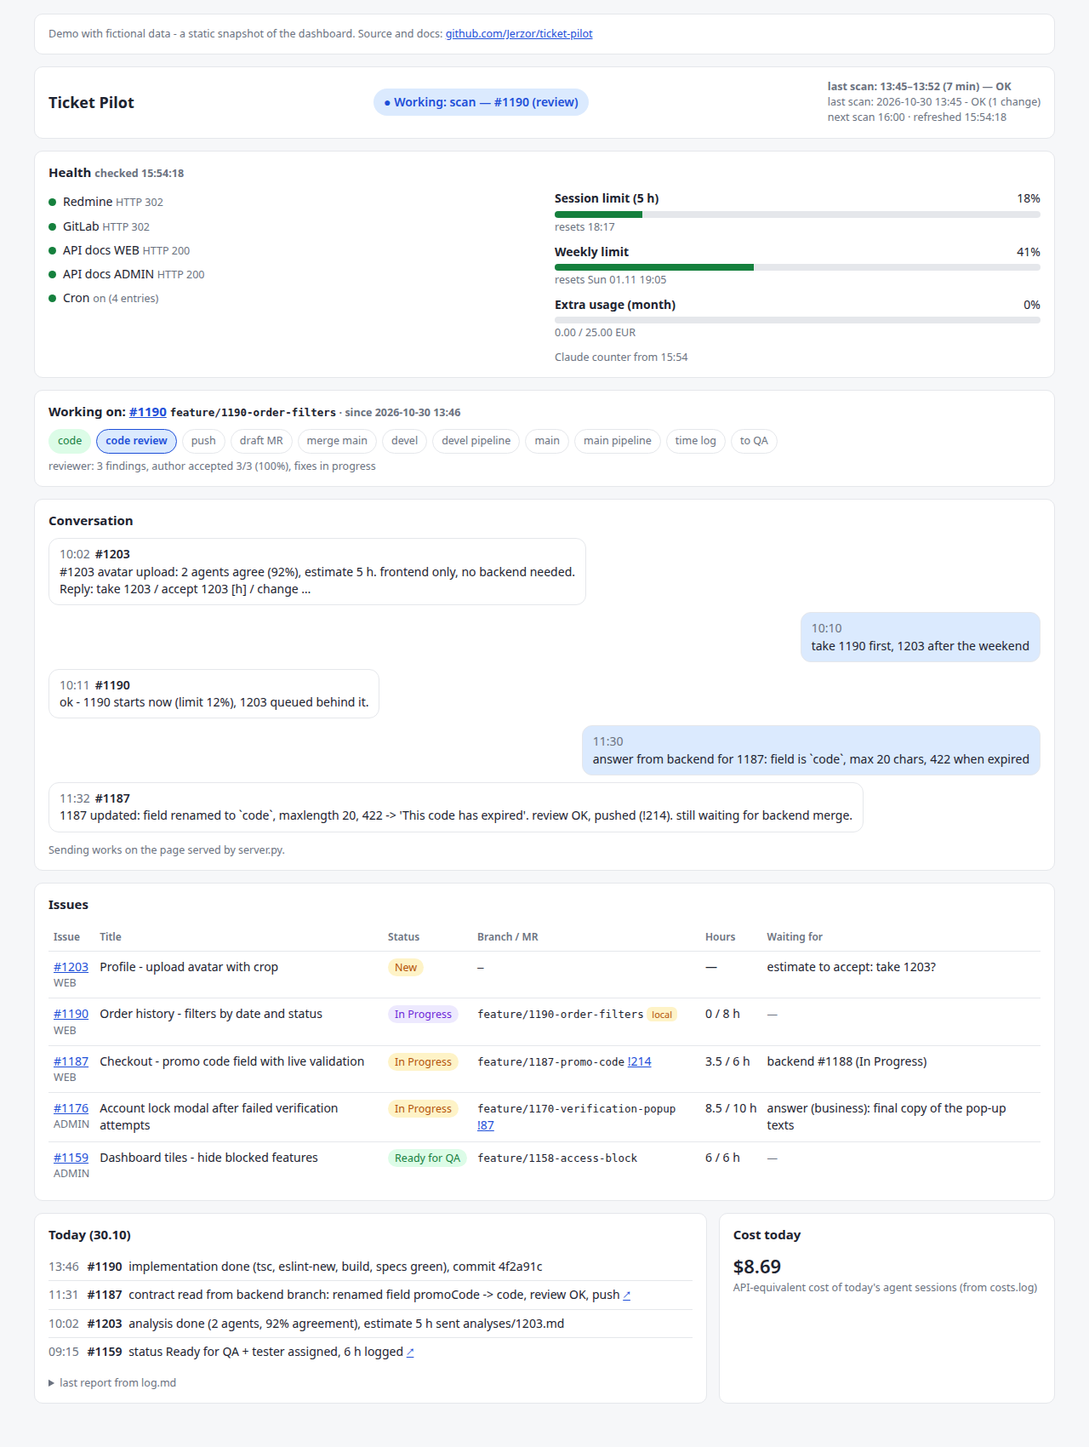
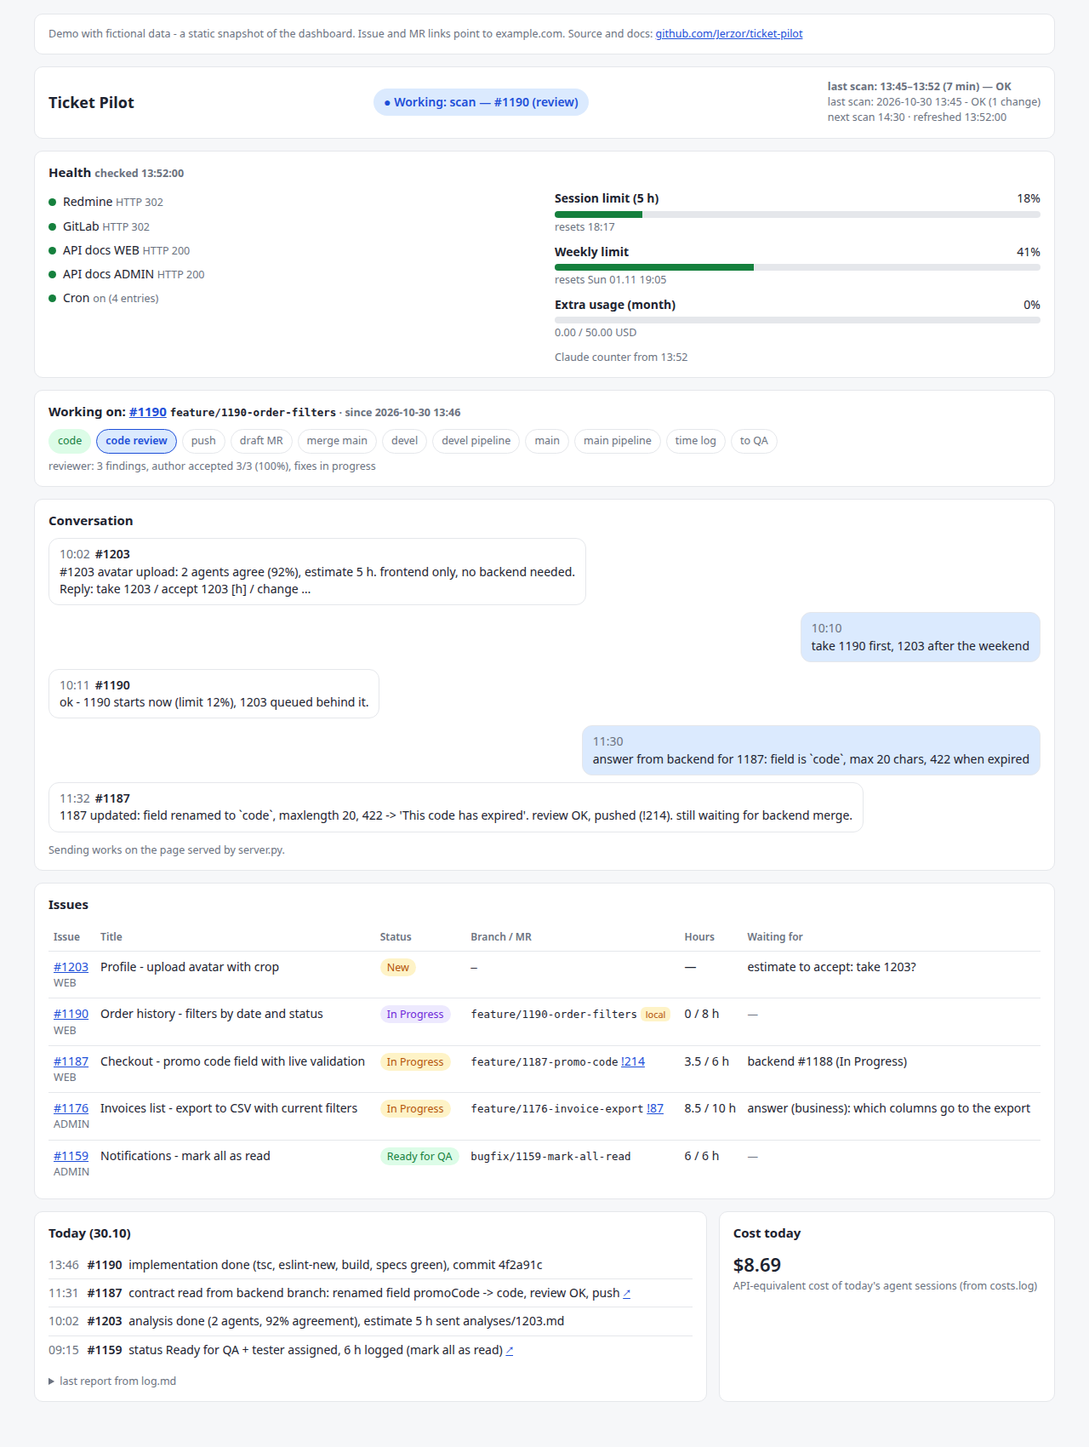
Fix lock inheritance, chat retry, mobile layout and setup docs

diff --git a/docs/index.html b/docs/index.html
@@ -22,7 +22,7 @@ th{font-size:12px;color:var(--muted);font-weight:600;border-top:0}.num{white-spa
 .steps li.done{background:var(--okbg);color:var(--ok);border-color:transparent}.steps li.now{background:var(--runbg);color:var(--run);border-color:var(--run);font-weight:600}
 ul.feed{list-style:none;margin:0;padding:0}ul.feed li{padding:6px 0;border-top:1px solid var(--line)}ul.feed li:first-child{border-top:0}
 time{font-variant-numeric:tabular-nums;color:var(--muted);margin-right:6px}.iss{font-weight:600;margin-right:4px}
-.grid{display:grid;grid-template-columns:2fr 1fr;gap:14px}@media (max-width:820px){.grid{grid-template-columns:1fr}.title{max-width:none}}
+main,.grid{grid-template-columns:minmax(0,1fr)}.grid{display:grid;gap:14px}@media (min-width:821px){.grid{grid-template-columns:minmax(0,2fr) minmax(0,1fr)}}@media (max-width:820px){.title{max-width:none}}
 .tablewrap{overflow-x:auto}.big{font-size:22px;font-weight:600}
 .health{display:grid;grid-template-columns:1fr 1fr;gap:6px 24px}@media (max-width:820px){.health{grid-template-columns:1fr}}
 ul.checks{list-style:none;margin:0;padding:0}ul.checks li{padding:4px 0}
@@ -39,15 +39,15 @@ form#send{display:flex;gap:8px;align-items:flex-end}
 textarea{flex:1;font:inherit;padding:8px;border-radius:8px;border:1px solid var(--line);background:var(--bg);color:var(--fg);resize:vertical}
 button{font:inherit;font-weight:600;padding:8px 16px;border-radius:8px;border:0;background:var(--run);color:var(--card);cursor:pointer}details pre{white-space:pre-wrap;font-size:12.5px;margin:8px 0 0}
 </style></head><body><main>
-<div class="card muted">Demo with fictional data - a static snapshot of the dashboard. Source and docs: <a href="https://github.com/Jerzor/ticket-pilot">github.com/Jerzor/ticket-pilot</a></div>
+<div class="card muted">Demo with fictional data - a static snapshot of the dashboard. Issue and MR links point to example.com. Source and docs: <a href="https://github.com/Jerzor/ticket-pilot">github.com/Jerzor/ticket-pilot</a></div>
 <div class="card top"><h1>Ticket Pilot</h1><span class="banner run">● Working: scan — #1190 (review)</span>
-<span class="muted"><b>last scan: 13:45–13:52 (7 min) — OK</b><br>last scan: 2026-10-30 13:45 - OK (1 change)<br>next scan 16:00 · refreshed 15:54:18</span></div>
+<span class="muted"><b>last scan: 13:45–13:52 (7 min) — OK</b><br>last scan: 2026-10-30 13:45 - OK (1 change)<br>next scan 14:30 · refreshed 13:52:00</span></div>
 
-<div class="card"><h2>Health <span class="muted">checked 15:54:18</span></h2><div class="health">
+<div class="card"><h2>Health <span class="muted">checked 13:52:00</span></h2><div class="health">
 <ul class="checks"><li><span class="dot ok"></span>Redmine <span class="muted">HTTP 302</span></li><li><span class="dot ok"></span>GitLab <span class="muted">HTTP 302</span></li><li><span class="dot ok"></span>API docs WEB <span class="muted">HTTP 200</span></li><li><span class="dot ok"></span>API docs ADMIN <span class="muted">HTTP 200</span></li><li><span class="dot ok"></span>Cron <span class="muted">on (4 entries)</span></li></ul><div><div class="meter"><div class="mrow"><b>Session limit (5 h)</b><span class="num">18%</span></div>
 <div class="bar"><i class="ok" style="width:18%"></i></div><div class="muted">resets 18:17</div></div><div class="meter"><div class="mrow"><b>Weekly limit</b><span class="num">41%</span></div>
 <div class="bar"><i class="ok" style="width:41%"></i></div><div class="muted">resets Sun 01.11 19:05</div></div><div class="meter"><div class="mrow"><b>Extra usage (month)</b><span class="num">0%</span></div>
-<div class="bar"><i class="ok" style="width:0%"></i></div><div class="muted">0.00 / 25.00 EUR</div></div><div class="muted">Claude counter from 15:54</div></div></div></div>
+<div class="bar"><i class="ok" style="width:0%"></i></div><div class="muted">0.00 / 50.00 USD</div></div><div class="muted">Claude counter from 13:52</div></div></div></div>
 <div class="card"><h2>Working on: <a href="https://redmine.example.com/issues/1190" target="_blank" rel="noopener">#1190</a> <code>feature/1190-order-filters</code><span class="muted"> · since 2026-10-30 13:46</span></h2>
 <ol class="steps"><li class="done">code</li><li class="now">code review</li><li class="">push</li><li class="">draft MR</li><li class="">merge main</li><li class="">devel</li><li class="">devel pipeline</li><li class="">main</li><li class="">main pipeline</li><li class="">time log</li><li class="">to QA</li></ol><div class="muted">reviewer: 3 findings, author accepted 3/3 (100%), fixes in progress</div></div>
 <div class="card" id="chat"><h2>Conversation</h2><ul class="chat"><li class="bot"><time>10:02</time><span class="iss">#1203</span> <div class="msg">#1203 avatar upload: 2 agents agree (92%), estimate 5 h. frontend only, no backend needed.
@@ -84,17 +84,17 @@ Reply: take 1203 / accept 1203 [h] / change …</div></li>
 </tr>
 <tr class="wait">
 <td><a href="https://redmine.example.com/issues/1176" target="_blank" rel="noopener">#1176</a><div class="muted">ADMIN</div></td>
-<td class="title">Account lock modal after failed verification attempts</td>
+<td class="title">Invoices list - export to CSV with current filters</td>
 <td><span class="pill wait">In Progress</span></td>
-<td><code>feature/1170-verification-popup</code> <a href="https://gitlab.example.com/acme/admin-panel/-/merge_requests/87" target="_blank" rel="noopener">!87</a></td>
+<td><code>feature/1176-invoice-export</code> <a href="https://gitlab.example.com/acme/admin-panel/-/merge_requests/87" target="_blank" rel="noopener">!87</a></td>
 <td class="num">8.5 / 10 h</td>
-<td>answer (business): final copy of the pop-up texts</td>
+<td>answer (business): which columns go to the export</td>
 </tr>
 <tr class="ok">
 <td><a href="https://redmine.example.com/issues/1159" target="_blank" rel="noopener">#1159</a><div class="muted">ADMIN</div></td>
-<td class="title">Dashboard tiles - hide blocked features</td>
+<td class="title">Notifications - mark all as read</td>
 <td><span class="pill ok">Ready for QA</span></td>
-<td><code>feature/1158-access-block</code> </td>
+<td><code>bugfix/1159-mark-all-read</code> </td>
 <td class="num">6 / 6 h</td>
 <td><span class="muted">—</span></td>
 </tr></table></div></div>
@@ -102,13 +102,13 @@ Reply: take 1203 / accept 1203 [h] / change …</div></li>
 <div class="card"><h2>Today (30.10)</h2><ul class="feed"><li><time>13:46</time> <span class="iss">#1190</span> implementation done (tsc, eslint-new, build, specs green), commit 4f2a91c </li>
 <li><time>11:31</time> <span class="iss">#1187</span> contract read from backend branch: renamed field promoCode -&gt; code, review OK, push <a href="https://gitlab.example.com/acme/customer-portal/-/merge_requests/214" target="_blank" rel="noopener">↗</a></li>
 <li><time>10:02</time> <span class="iss">#1203</span> analysis done (2 agents, 92% agreement), estimate 5 h sent analyses/1203.md</li>
-<li><time>09:15</time> <span class="iss">#1159</span> status Ready for QA + tester assigned, 6 h logged <a href="https://redmine.example.com/issues/1159" target="_blank" rel="noopener">↗</a></li></ul>
+<li><time>09:15</time> <span class="iss">#1159</span> status Ready for QA + tester assigned, 6 h logged (mark all as read) <a href="https://redmine.example.com/issues/1159" target="_blank" rel="noopener">↗</a></li></ul>
 <details><summary class="muted" style="margin-top:12px">last report from log.md</summary><pre>## 2026-10-30 13:45
 Scan 13:45: 1 change.
 
 - **#1190 (WEB):** implementation finished per analyses/1190.md, code review running (3 findings, all accepted).
 - **#1187 (WEB):** waiting for backend #1188 - branch exists in the mirror, not merged to main yet.
-- **#1176 (ADMIN):** draft MR !87, waiting for the final pop-up copy (business).
+- **#1176 (ADMIN):** draft MR !87, waiting for business to confirm the export columns.
 - **Limit:** session 18%, week 41%.
 
 QUESTIONS FOR THE USER: none.</pre></details></div>

diff --git a/web/dashboard.py b/web/dashboard.py
@@ -40,6 +40,16 @@ DONE_STATUSES = {STATUSES.get("testing"), STATUSES.get("resolved")}
 e = html.escape
 
 
+def clock():
+    """Real time; in the demo the moment the last scan ended, so the snapshot is consistent on any day."""
+    if DEMO:
+        try:
+            return dt.datetime.strptime((DATA / ".last-scan").read_text().strip().split("|")[1], "%Y-%m-%d %H:%M")
+        except (OSError, IndexError, ValueError):
+            pass
+    return dt.datetime.now()
+
+
 def read(name, default=""):
     try:
         return (DATA / name).read_text(encoding="utf-8")
@@ -126,7 +136,7 @@ def mr_links(proj, it):
 def issue_rows(state):
     rows = []
     ip_id = str((state.get("inProgress") or {}).get("id") or "")
-    for nr, it in sorted(state.get("issues", {}).items(), key=lambda kv: kv[0], reverse=True):
+    for nr, it in sorted(state.get("issues", {}).items(), key=lambda kv: int(kv[0]) if kv[0].isdigit() else 0, reverse=True):
         proj = it.get("project", "")
         status = it.get("status", "")
         if nr == ip_id and status in ("", STATUSES.get("open")):
@@ -185,7 +195,7 @@ def last_report():
 
 
 DEMO_NOTE = """<div class="card muted">Demo with fictional data - a static snapshot of the dashboard. \
-Source and docs: <a href="https://github.com/Jerzor/ticket-pilot">github.com/Jerzor/ticket-pilot</a></div>"""
+Issue and MR links point to example.com. Source and docs: <a href="https://github.com/Jerzor/ticket-pilot">github.com/Jerzor/ticket-pilot</a></div>"""
 
 HEALTH = DATA / ".health.json"
 CHECKS = [(TRACKER.get("name", "Tracker"), TRACKER.get("url", "").rstrip("/") + "/", "403 = no VPN"),
@@ -218,7 +228,7 @@ def health():
         cached = json.loads(HEALTH.read_text())
     except (OSError, ValueError):
         cached = {}
-    now = dt.datetime.now().timestamp()
+    now = clock().timestamp()
     if DEMO:
         return dict(cached, at=now, usage_at=now)
     if now - cached.get("at", 0) < 60:
@@ -257,7 +267,7 @@ def reset_at(iso):
         t = dt.datetime.fromisoformat(iso).astimezone()
     except (TypeError, ValueError):
         return ""
-    return t.strftime("%H:%M") if t.date() == dt.date.today() else t.strftime("%a %d.%m %H:%M")
+    return t.strftime("%H:%M") if t.date() == clock().date() else t.strftime("%a %d.%m %H:%M")
 
 
 def meter(label, pct, sub):
@@ -277,7 +287,7 @@ def last_scan():
         a, b = (dt.datetime.strptime(x, "%Y-%m-%d %H:%M") for x in (start, end))
     except ValueError:
         return "last scan: no data"
-    day = "" if a.date() == dt.date.today() else f"{a:%d.%m} "
+    day = "" if a.date() == clock().date() else f"{a:%d.%m} "
     why = SCAN_RC.get(int(rc), f"error (code {rc})")
     return f"last scan: {day}{a:%H:%M}–{b:%H:%M} ({int((b - a).total_seconds() // 60)} min) — {why}"
 
@@ -305,7 +315,7 @@ def health_card():
             meters.append(meter("Extra usage (month)", ex.get("utilization"),
                                 f'{ex.get("used_credits", 0) / d:.2f} / {ex.get("monthly_limit", 0) / d:.2f} {e(ex.get("currency", ""))}'))
         claude = "".join(meters)
-        age = (dt.datetime.now().timestamp() - h.get("usage_at", 0)) / 60
+        age = (clock().timestamp() - h.get("usage_at", 0)) / 60
         stale = f' — <b class="bad">STALE reading ({age:.0f} min), counter not responding</b>' if age > 15 else ""
         claude += f'<div class="muted">Claude counter from {dt.datetime.fromtimestamp(h.get("usage_at", 0)):%H:%M}{stale}</div>'
     else:
@@ -327,7 +337,7 @@ def chat_card(web):
     items = []
     for i, m in enumerate(msgs):
         t = dt.datetime.fromtimestamp(float(m["ts"]))
-        when = t.strftime("%H:%M") if t.date() == dt.date.today() else t.strftime("%d.%m %H:%M")
+        when = t.strftime("%H:%M") if t.date() == clock().date() else t.strftime("%d.%m %H:%M")
         user = m.get("from") == "user"
         cls = "me" if user else "bot"
         if user and float(m["ts"]) > handled:
@@ -359,14 +369,12 @@ def main():
 
 
 def render(web=False):
-    now = dt.datetime.now()
+    now = clock()
     today = now.strftime("%Y-%m-%d")
     try:
         state = json.loads(read("state.json", "{}"))
     except json.JSONDecodeError:
         state = {}
-    if DEMO:
-        today = (state.get("checkedAt") or today)[:10]  # demo data is a snapshot of one day
     procs = running()
     limit = read(".limit-hit").strip()
     paused = (DATA / ".paused").exists()
@@ -414,7 +422,7 @@ th{{font-size:12px;color:var(--muted);font-weight:600;border-top:0}}.num{{white-
 .steps li.done{{background:var(--okbg);color:var(--ok);border-color:transparent}}.steps li.now{{background:var(--runbg);color:var(--run);border-color:var(--run);font-weight:600}}
 ul.feed{{list-style:none;margin:0;padding:0}}ul.feed li{{padding:6px 0;border-top:1px solid var(--line)}}ul.feed li:first-child{{border-top:0}}
 time{{font-variant-numeric:tabular-nums;color:var(--muted);margin-right:6px}}.iss{{font-weight:600;margin-right:4px}}
-.grid{{display:grid;grid-template-columns:2fr 1fr;gap:14px}}@media (max-width:820px){{.grid{{grid-template-columns:1fr}}.title{{max-width:none}}}}
+main,.grid{{grid-template-columns:minmax(0,1fr)}}.grid{{display:grid;gap:14px}}@media (min-width:821px){{.grid{{grid-template-columns:minmax(0,2fr) minmax(0,1fr)}}}}@media (max-width:820px){{.title{{max-width:none}}}}
 .tablewrap{{overflow-x:auto}}.big{{font-size:22px;font-weight:600}}
 .health{{display:grid;grid-template-columns:1fr 1fr;gap:6px 24px}}@media (max-width:820px){{.health{{grid-template-columns:1fr}}}}
 ul.checks{{list-style:none;margin:0;padding:0}}ul.checks li{{padding:4px 0}}

diff --git a/web/chat.py b/web/chat.py
@@ -8,7 +8,6 @@
   chat.py history [--limit N] [--chars N]  - last N messages (default 30, each cut to 800 chars) - context for a fresh session
   chat.py prune            - drops messages older than 7 days (unhandled ones always stay)
 """
-import fcntl
 import json
 import os
 import sys
@@ -18,10 +17,20 @@ from pathlib import Path
 sys.path.insert(0, str(Path(__file__).resolve().parent.parent / "lib"))
 from config import DATA  # noqa: E402
 
+try:
+    import fcntl
+except ImportError:  # Windows: no file locks, fine for the single-user demo
+    fcntl = None
+
 CHAT = DATA / "chat.jsonl"
 STATE = DATA / "state.json"
 TRIGGERED = DATA / ".web-triggered"
 KEEP_DAYS = 7
+
+
+def lock(f):
+    if fcntl:
+        fcntl.flock(f, fcntl.LOCK_EX)
 
 
 def messages():
@@ -45,7 +54,7 @@ def append(sender, text, question=False, issue=None):
     if issue:
         msg["issue"] = str(issue).lstrip("#")
     with open(CHAT, "a", encoding="utf-8") as f:
-        fcntl.flock(f, fcntl.LOCK_EX)
+        lock(f)
         f.write(json.dumps(msg, ensure_ascii=False) + "\n")
     return msg
 
@@ -71,11 +80,14 @@ def pending(only_new=False):
 
 
 def done(ts):
-    state = json.loads(STATE.read_text(encoding="utf-8"))
-    state.setdefault("web", {})["lastTs"] = ts
-    tmp = STATE.with_suffix(".web.tmp")
-    tmp.write_text(json.dumps(state, ensure_ascii=False, indent=2) + "\n", encoding="utf-8")
-    os.replace(tmp, STATE)
+    # same lock file as bin/state-jq.sh, so concurrent state writers don't overwrite each other
+    with open(str(STATE) + ".lock", "a") as lk:
+        lock(lk)
+        state = json.loads(STATE.read_text(encoding="utf-8"))
+        state.setdefault("web", {})["lastTs"] = ts
+        tmp = STATE.with_suffix(".web.tmp")
+        tmp.write_text(json.dumps(state, ensure_ascii=False, indent=2) + "\n", encoding="utf-8")
+        os.replace(tmp, STATE)
 
 
 def history(limit=30, chars=800):
@@ -95,7 +107,7 @@ def prune():
     cutoff = time.time() - KEEP_DAYS * 86400
     handled = last_handled()
     with open(CHAT, "r+", encoding="utf-8") as f:
-        fcntl.flock(f, fcntl.LOCK_EX)
+        lock(f)
         lines = f.read().splitlines()
         keep = []
         for line in lines:
@@ -108,9 +120,10 @@ def prune():
                 keep.append(line)
         if len(keep) == len(lines):
             return 0
-        tmp = CHAT.with_suffix(".prune.tmp")
-        tmp.write_text("".join(x + "\n" for x in keep), encoding="utf-8")
-        os.replace(tmp, CHAT)
+        # rewrite in place: a writer waiting on the lock keeps appending to the same file
+        f.seek(0)
+        f.write("".join(x + "\n" for x in keep))
+        f.truncate()
     return len(lines) - len(keep)
 
 

diff --git a/guard/limit-check.py b/guard/limit-check.py
@@ -3,7 +3,7 @@
 
   limit-check.py start  - before a run: exit 1 when the 5-hour or weekly limit >= limits.startBelow; stores extra usage as a baseline
   limit-check.py watch  - during a run: exit 1 when a limit >= limits.killAt (margin so 100% is never crossed) or extra usage grew since start
-  limit-check.py status - for the agent session: prints usage in %, writes nothing
+  limit-check.py status - for the agent session: prints usage in % (may refresh the shared cache, nothing else)
 Exit 0 = OK to work. When the counter is unavailable (network, token, 429): start retries for 90 s, then exit 2 (skip the run);
 watch fails closed (exit 1 = kill).
 """
@@ -63,7 +63,7 @@ def main(mode):
         if not u:
             print("usage counter unavailable")
             return 0
-        print(f"session 5h {(u.get('five_hour') or {}).get('utilization', 0):.0f}% · week {(u.get('seven_day') or {}).get('utilization', 0):.0f}%")
+        print(f"session 5h {(u.get('five_hour') or {}).get('utilization') or 0:.0f}% · week {(u.get('seven_day') or {}).get('utilization') or 0:.0f}%")
         return 0
     for _ in range(3 if mode == "start" else 0):
         if u:

diff --git a/lib/config.py b/lib/config.py
@@ -23,6 +23,7 @@ def _load():
 
 CFG = _load()
 DATA = expand(os.environ.get("TICKET_PILOT_DATA") or CFG.get("dataDir", "~/.ticket-pilot"))
+DATA.mkdir(parents=True, exist_ok=True)
 DEMO = os.environ.get("TICKET_PILOT_DEMO") == "1"
 PROJECTS = CFG.get("projects", {})
 TRACKER = CFG.get("tracker", {})

diff --git a/README.md b/README.md
@@ -55,7 +55,7 @@ Every run is a **fresh, non-interactive Claude Code session** (`claude -p --chro
 | **Agents make up timestamps** | Shell scripts own the clock: run start/end and `checkedAt` are written by `run-scan.sh`, not by the model. |
 | **Background subagents can't ask for permission** | A strict tool allowlist plus a few purpose-built scripts (`state-jq.sh` for atomic state updates, `eslint-new.sh` for "only new lint errors") so agents never need a command that would be denied. |
 | **Cost** | The coordinating session runs on a cheaper model; only analysis, coding, review and arbitration go to the strongest model. An empty scan costs about $0.30. |
-| **Talking to the agent away from the desk** | A token-protected web page on the LAN: live status, issues, today's actions, limits, and a chat. Messages are picked up every minute, 24/7, with zero tokens spent while there are none. |
+| **Talking to the agent away from the desk** | A token-protected web page (localhost by default, LAN with `web.host: 0.0.0.0`): live status, issues, today's actions, limits, and a chat. Messages are picked up every minute, 24/7, with zero tokens spent while there are none. |
 | **Human stays in control** | The agent never starts work without "take &lt;nr&gt;", never sends messages to colleagues (it drafts them), never comments in the tracker, never force-pushes and never merges while business/backend questions are open. |
 
 ## Tech stack
@@ -99,7 +99,7 @@ docs/                  GitHub Pages: the static demo (index.html) and the screen
 | I want to… | How |
 | --- | --- |
 | see what it looks like | open the [live demo](https://jerzor.github.io/ticket-pilot/) - nothing to install |
-| click around, try the chat | run the local demo below (Python 3 only, macOS / Linux / Windows) |
+| click around, try the chat | run the local demo below (Python 3 only, macOS / Linux) |
 | understand how the agent thinks | read [`skill/SKILL.md`](skill/SKILL.md) and [`skill/refs/`](skill/refs) - the agent's full instructions |
 | see the orchestration | [`bin/run-scan.sh`](bin/run-scan.sh) and [`guard/limit-check.py`](guard/limit-check.py) |
 | run it on my own projects | Linux + the setup in [Running it for real](#running-it-for-real); expect to adapt `skill/` to your tracker and release process |
@@ -110,7 +110,7 @@ No tracker, GitLab or Claude account needed - only Python 3 (standard library):
 
 ```bash
 # static dashboard
-python3 web/dashboard.py --demo && open demo/dashboard.html   # Linux: xdg-open
+python3 web/dashboard.py --demo && open demo/dashboard.html   # Linux: xdg-open; the same page is in docs/index.html
 
 # dashboard + working chat (runs on a temporary copy of the demo data)
 python3 web/server.py --demo --port 8799                      # open the printed URL
@@ -124,10 +124,18 @@ Requirements: Linux (`flock`, `notify-send`, cron, systemd), Claude Code with Cl
 
 ```bash
 cp config.example.json config.json      # tracker URL, projects -> repos, release flow, testers, limits
-bin/install-skill.sh                    # installs the skill as /ticket-pilot
-crontab -e                              # see deploy/crontab.example
+bin/install-skill.sh                    # installs the skill as /ticket-pilot, creates the data directory
+
+# backend mirrors (one per project, name = projects.<KEY>.backendMirror) - bare and blobless, fetched by the agent
+git clone --bare --filter=blob:none <backend repo URL> ~/.ticket-pilot/be-web.git
+
+crontab -e                              # paste deploy/crontab.example with /path/to/ticket-pilot replaced
+
+# web dashboard: first replace the path in ExecStart, then
 cp deploy/ticket-pilot-web.service ~/.config/systemd/user/ && systemctl --user enable --now ticket-pilot-web
 ```
+
+Pause everything with `touch ~/.ticket-pilot/.paused` (remove the file to resume). The access token for the web page is in `~/.ticket-pilot/.web-token`.
 
 The skill is written for a Redmine + GitLab + Angular setup with two release flows (`direct`: devel and main at once; `two-stage`: QA on devel, main and a manual deploy after acceptance). Adapting it to another tracker is mostly a matter of editing `skill/`.
 

diff --git a/skill/SKILL.md b/skill/SKILL.md
@@ -39,7 +39,7 @@ One run = one session, work **strictly in sequence, never two implementations at
 5. Implementation from `workQueue` in "take" order (FIFO; the user may reorder: "first <nr>"). The next one starts only when the previous one is pushed after review.
 6. Analysis of new issues (refs/analysis.md) - **one at a time, top of the tracker list first**, each finished (analysis file + state + result in the web chat with "take <nr>?") before the next.
 
-**Claude limit before starting work** (`{{ROOT}}/guard/limit-check.py status` right before):
+**Claude limit before starting work** (`python3 {{ROOT}}/guard/limit-check.py status` right before):
 - new implementation only when the 5-hour session < `limits.newImplementationBelow` %; otherwise keep it queued and tell the user when it will start;
 - new analysis only when the session < `limits.newAnalysisBelow` %;
 - weekly ≥ `limits.weeklyOnlyFinishFrom` % → no new analyses or implementations, only finishing, releases and time log;

diff --git a/demo/data/actions.md b/demo/data/actions.md
@@ -1,4 +1,4 @@
-- 2026-10-30 09:15 | #1159 | status Ready for QA + tester assigned, 6 h logged | https://redmine.example.com/issues/1159
+- 2026-10-30 09:15 | #1159 | status Ready for QA + tester assigned, 6 h logged (mark all as read) | https://redmine.example.com/issues/1159
 - 2026-10-30 10:02 | #1203 | analysis done (2 agents, 92% agreement), estimate 5 h sent | analyses/1203.md
 - 2026-10-30 11:31 | #1187 | contract read from backend branch: renamed field promoCode -> code, review OK, push | https://gitlab.example.com/acme/customer-portal/-/merge_requests/214
 - 2026-10-30 13:46 | #1190 | implementation done (tsc, eslint-new, build, specs green), commit 4f2a91c | 

diff --git a/demo/data/log.md b/demo/data/log.md
@@ -4,7 +4,7 @@ Scan 13:45: 1 change.
 
 - **#1190 (WEB):** implementation finished per analyses/1190.md, code review running (3 findings, all accepted).
 - **#1187 (WEB):** waiting for backend #1188 - branch exists in the mirror, not merged to main yet.
-- **#1176 (ADMIN):** draft MR !87, waiting for the final pop-up copy (business).
+- **#1176 (ADMIN):** draft MR !87, waiting for business to confirm the export columns.
 - **Limit:** session 18%, week 41%.
 
 QUESTIONS FOR THE USER: none.
